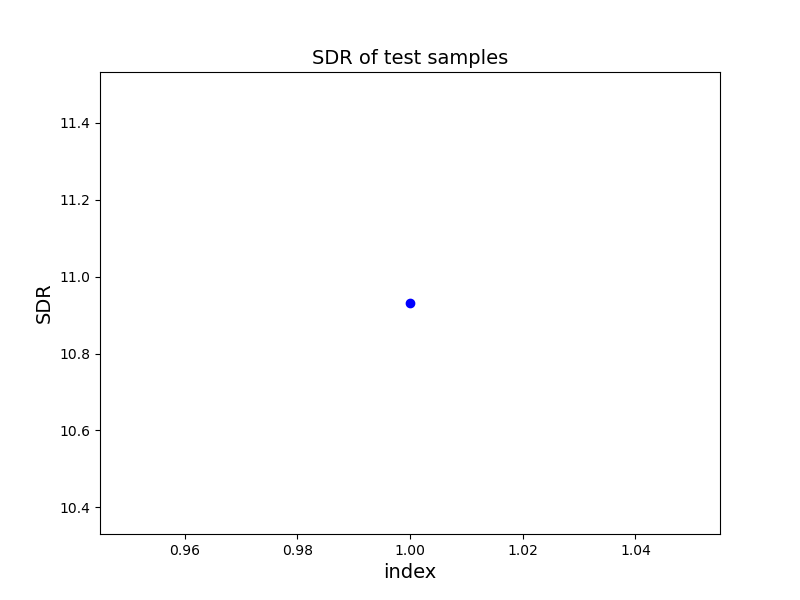
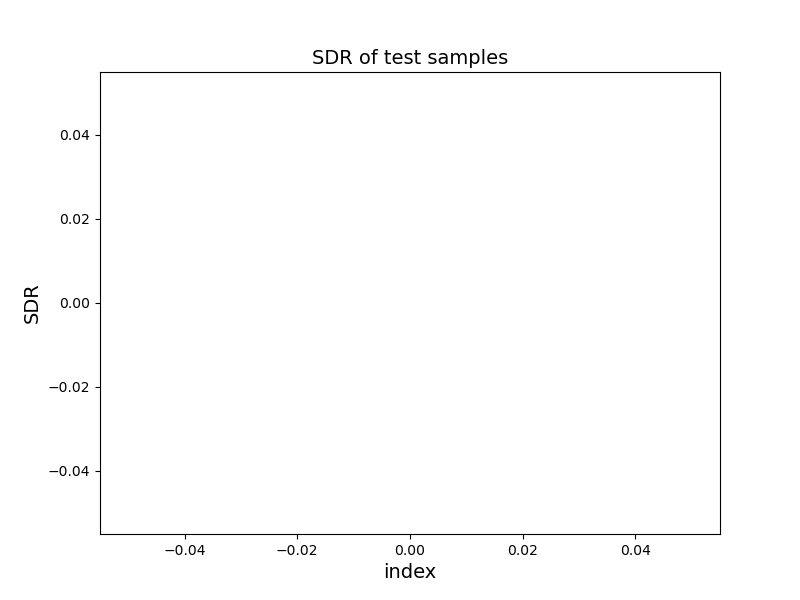
adjust test model

diff --git a/TASNET_test_model.py b/TASNET_test_model.py
@@ -127,19 +127,19 @@ def test(args):
             wave2 = zero_mean(wave2[:len_mix].numpy())/np.max(wave2[:len_mix].numpy())
 
             #Calculate the SDR with bss tools
-            wave = [wave1,wave2]
-            estimate = np.array(wave)
-            real = [real1,real2]
-            reference = np.array(real)
-            sdr,sir,sar,_ = bss_eval_sources(estimate,reference) 
-            sdr_list.append(np.mean(sdr))
+            # wave = [wave1,wave2]
+            # estimate = np.array(wave)
+            # real = [real1,real2]
+            # reference = np.array(real)
+            # sdr,sir,sar,_ = bss_eval_sources(estimate,reference) 
+            # sdr_list.append(np.mean(sdr))
 
             #Count the number of SDR lower than 5 and calculate the mean SDR
-            if np.mean(sdr) < 5:
-                low +=1
-            num_test += 1
-            tot += sdr
-            mean = np.mean(tot)/(num_test)
+            # if np.mean(sdr) < 5:
+            #     low +=1
+            # num_test += 1
+            # tot += sdr
+            # mean = np.mean(tot)/(num_test)
 
             #NOTE
             #wave1 : result from speaker1
@@ -153,13 +153,13 @@ def test(args):
             librosa.output.write_wav(save_dir1,wave1,sr)
             librosa.output.write_wav(save_dir2,wave2,sr)
             
-            if num_test%2 == 0:
-                logger.info("The current SDR was {}/{}".format(mean, num_test))
-                logger.info("SDR lower than 5 were {}/{}".format(low,num_test))
+            # if num_test%2 == 0:
+            #     logger.info("The current SDR was {}/{}".format(mean, num_test))
+            #     logger.info("SDR lower than 5 were {}/{}".format(low,num_test))
 
     #Print the SDR in the figure
     logger.info("Testing for all {} waves have done!".format(num_test))
-    logger.info("The total mean SDR is {}".format(mean))
+    # logger.info("The total mean SDR is {}".format(mean))
     xData = np.arange(1, len(sdr_list)+1, 1)
     sdr_list.sort()  
     yData = sdr_list
